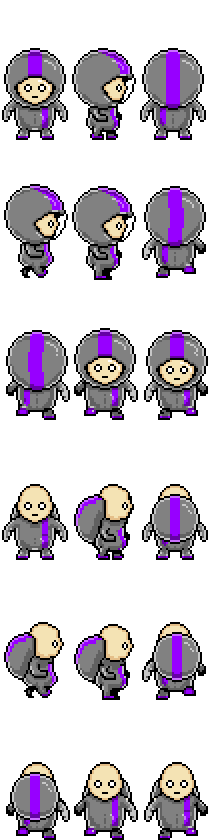
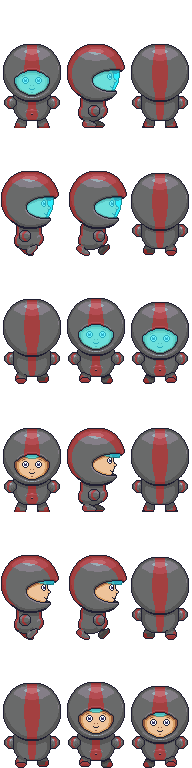
New character sprite + Expanded Character Sprite Color Replacement Range (#1517)
* 64 ppu Character sprite

* Adapt Character Sprite Controller to new sprite

* Indexed Mode

* Expand Color Range of Char Sprite Color Replacement

* Fix Front Facing Colors

* Fix Front Facing Colors

* Turn off MipMapping

* Maybe fixed colors

* Even Better Color Palette

diff --git a/Assets/Scripts/Controllers/Sprites/CharacterSpriteController.cs b/Assets/Scripts/Controllers/Sprites/CharacterSpriteController.cs
@@ -11,17 +11,22 @@ using UnityEngine;
 
 public enum SpriteSwapRedColor
 {
-    UNIFORMCOLOR = 129,
-    UNIFORMCOLORLIGHT = 199,
-    UNIFORMCOLORDARK = 97,
-    UNIFORMSTRIPECOLOR = 151,
-    UNIFORMSTRIPECOLORLIGHT = 201,
-    UNIFORMSTRIPECOLORDARK = 101,
+    UNIFORMCOLORVERYLIGHT = 155,
+    UNIFORMCOLORLIGHT = 132,
+    UNIFORMCOLOR = 105,
+    UNIFORMCOLORDARK = 86,
+    UNIFORMCOLORVERYDARK = 68,
+    UNIFORMSTRIPECOLORVERYLIGHT = 194,
+    UNIFORMSTRIPECOLORLIGHT = 180,
+    UNIFORMSTRIPECOLOR = 163,
+    UNIFORMSTRIPECOLORDARK = 152,
+    UNIFORMSTRIPECOLOVVERYRDARK = 141,
     HAIRCOLOR = 152,
     HAIRCOLORLIGHT = 202,
     HAIRCOLORDARK = 102,
-    SKINCOLOR = 244,
-    SKINCOLORDARK = 229
+    SKINCOLOR = 238,
+    SKINCOLORDARK = 217,
+    SKINCOLORVERYDARK = 143
 }
 
 public class CharacterSpriteController : BaseSpriteController<Character>
@@ -151,24 +156,34 @@ public class CharacterSpriteController : BaseSpriteController<Character>
         colorSwapTex.Apply();
 
         // Define the swapping colors. Add white to highlights and black to shadows        
-        Color newColorLight = Color.Lerp(character.GetCharacterColor(), ColorUtilities.ColorFromIntRGB(255, 255, 255), 0.5f);
-        Color newColorDark = Color.Lerp(character.GetCharacterColor(), ColorUtilities.ColorFromIntRGB(0, 0, 0), 0.5f);
+        Color newUniformStripeColorLight = Color.Lerp(character.GetCharacterColor(), ColorUtilities.ColorFromIntRGB(255, 255, 255), 0.5f);
+        Color newUniformStripeColorVeryLight = Color.Lerp(newUniformStripeColorLight, ColorUtilities.ColorFromIntRGB(255, 255, 255), 0.5f);
+        Color newUniformStripeColorDark = Color.Lerp(character.GetCharacterColor(), ColorUtilities.ColorFromIntRGB(0, 0, 0), 0.5f);
+        Color newUniformStripeColorVeryDark = Color.Lerp(newUniformStripeColorDark, ColorUtilities.ColorFromIntRGB(0, 0, 0), 0.5f);
         Color newSkinColor = character.GetCharacterSkinColor();
-        Color newSkinColorDark = Color.Lerp(newSkinColor, ColorUtilities.ColorFromIntRGB(0, 0, 0), 0.2f);        
+        Color newSkinColorDark = Color.Lerp(newSkinColor, ColorUtilities.ColorFromIntRGB(0, 0, 0), 0.2f);
+        Color newSkinColorVeryDark = Color.Lerp(newSkinColorDark, ColorUtilities.ColorFromIntRGB(0, 0, 0), 0.5f);
         Color newUniformColor = character.GetCharacterUniformColor();
-        Color newUniformColorLight = Color.Lerp(newUniformColor, ColorUtilities.ColorFromIntRGB(255, 255, 255), 0.5f);
+        Color newUniformColorLight = Color.Lerp(newUniformColor, ColorUtilities.ColorFromIntRGB(255, 255, 255), 0.2f);
+        Color newUniformColorVeryLight = Color.Lerp(newUniformColorLight, ColorUtilities.ColorFromIntRGB(255, 255, 255), 0.5f);
         Color newUniformColorDark = Color.Lerp(newUniformColor, ColorUtilities.ColorFromIntRGB(0, 0, 0), 0.2f);
+        Color newUniformColorVeryDark = Color.Lerp(newUniformColorDark, ColorUtilities.ColorFromIntRGB(0, 0, 0), 0.5f);
 
         // add the colors to the texture
         // TODO: Do something similar for HAIRCOLOR, when we have a character with visible hair
         colorSwapTex = SwapColor(colorSwapTex, SpriteSwapRedColor.UNIFORMCOLOR, newUniformColor);
         colorSwapTex = SwapColor(colorSwapTex, SpriteSwapRedColor.UNIFORMCOLORLIGHT, newUniformColorLight);
+        colorSwapTex = SwapColor(colorSwapTex, SpriteSwapRedColor.UNIFORMCOLORVERYLIGHT, newUniformColorVeryLight);
         colorSwapTex = SwapColor(colorSwapTex, SpriteSwapRedColor.UNIFORMCOLORDARK, newUniformColorDark);
+        colorSwapTex = SwapColor(colorSwapTex, SpriteSwapRedColor.UNIFORMCOLORVERYDARK, newUniformColorVeryDark);
         colorSwapTex = SwapColor(colorSwapTex, SpriteSwapRedColor.UNIFORMSTRIPECOLOR, character.GetCharacterColor());
-        colorSwapTex = SwapColor(colorSwapTex, SpriteSwapRedColor.UNIFORMSTRIPECOLORLIGHT, newColorLight);
-        colorSwapTex = SwapColor(colorSwapTex, SpriteSwapRedColor.UNIFORMSTRIPECOLORDARK, newColorDark);
+        colorSwapTex = SwapColor(colorSwapTex, SpriteSwapRedColor.UNIFORMSTRIPECOLORLIGHT, newUniformStripeColorLight);
+        colorSwapTex = SwapColor(colorSwapTex, SpriteSwapRedColor.UNIFORMSTRIPECOLORVERYLIGHT, newUniformStripeColorVeryLight);
+        colorSwapTex = SwapColor(colorSwapTex, SpriteSwapRedColor.UNIFORMSTRIPECOLORDARK, newUniformStripeColorDark);
+        colorSwapTex = SwapColor(colorSwapTex, SpriteSwapRedColor.UNIFORMSTRIPECOLOVVERYRDARK, newUniformStripeColorVeryDark);
         colorSwapTex = SwapColor(colorSwapTex, SpriteSwapRedColor.SKINCOLOR, newSkinColor);
         colorSwapTex = SwapColor(colorSwapTex, SpriteSwapRedColor.SKINCOLORDARK, newSkinColorDark);
+        colorSwapTex = SwapColor(colorSwapTex, SpriteSwapRedColor.SKINCOLORVERYDARK, newSkinColorVeryDark);
         colorSwapTex.Apply();
 
         // load material and shader

diff --git a/Assets/Scripts/Models/InputOutput/SpriteManager.cs b/Assets/Scripts/Models/InputOutput/SpriteManager.cs
@@ -128,7 +128,7 @@ public class SpriteManager
         byte[] imageBytes = File.ReadAllBytes(filePath);
 
         // Create some kind of dummy instance of Texture2D
-        Texture2D imageTexture = new Texture2D(2, 2);
+        Texture2D imageTexture = new Texture2D(2, 2, TextureFormat.ARGB32, false);
 
         // LoadImage will correctly resize the texture based on the image file
         if (imageTexture.LoadImage(imageBytes))
